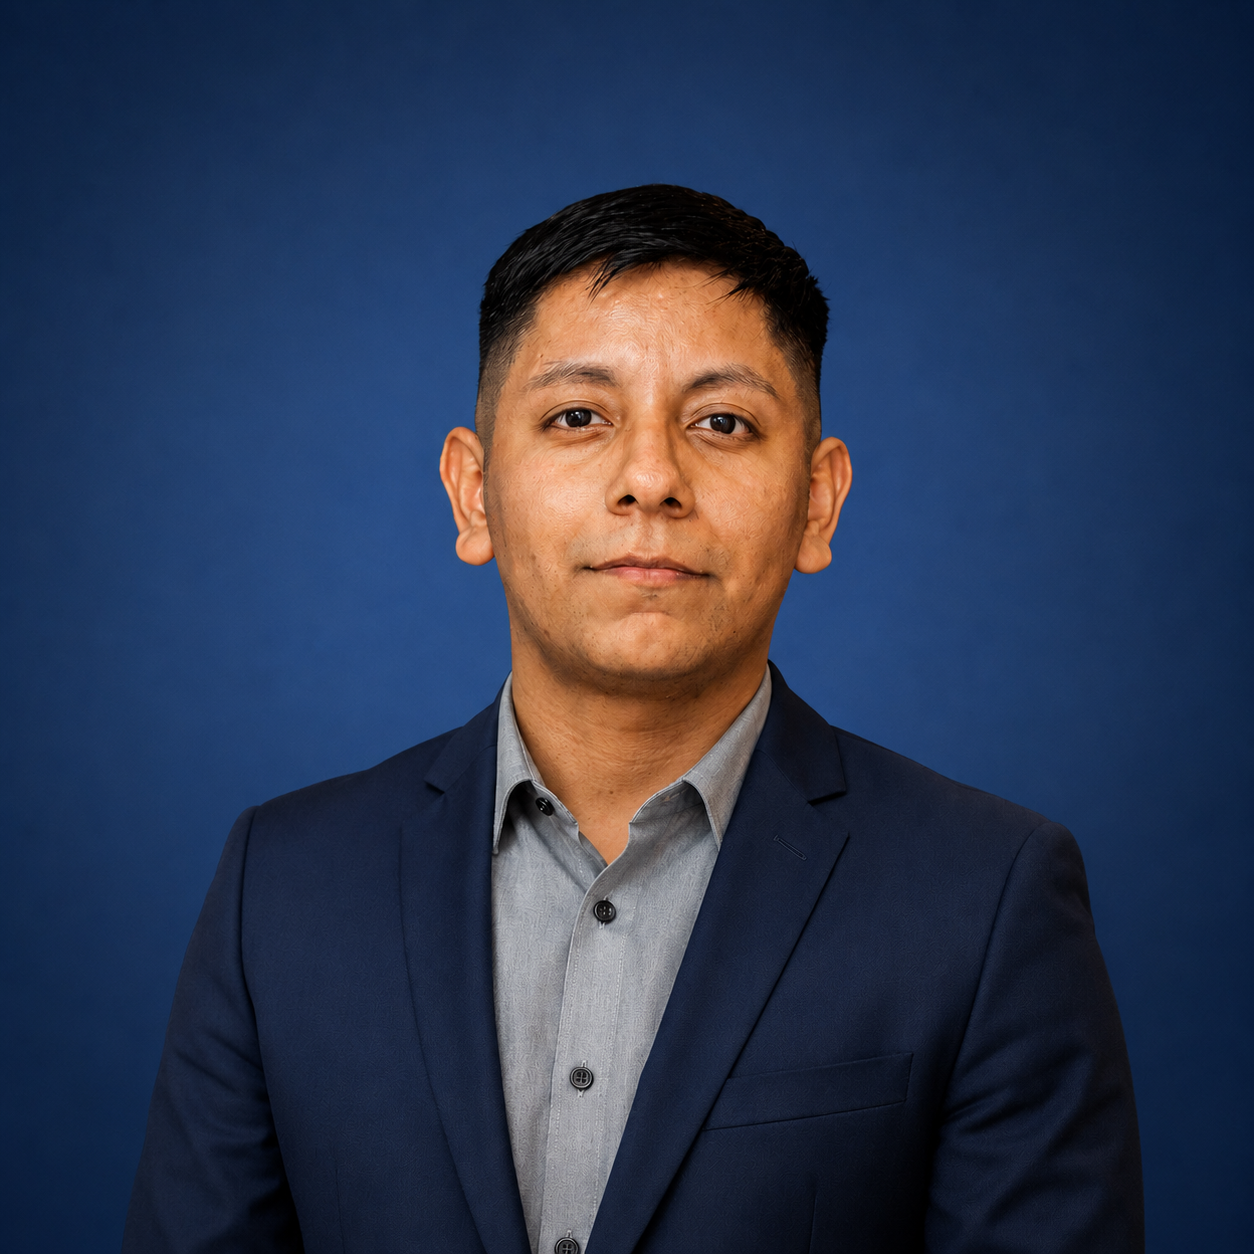
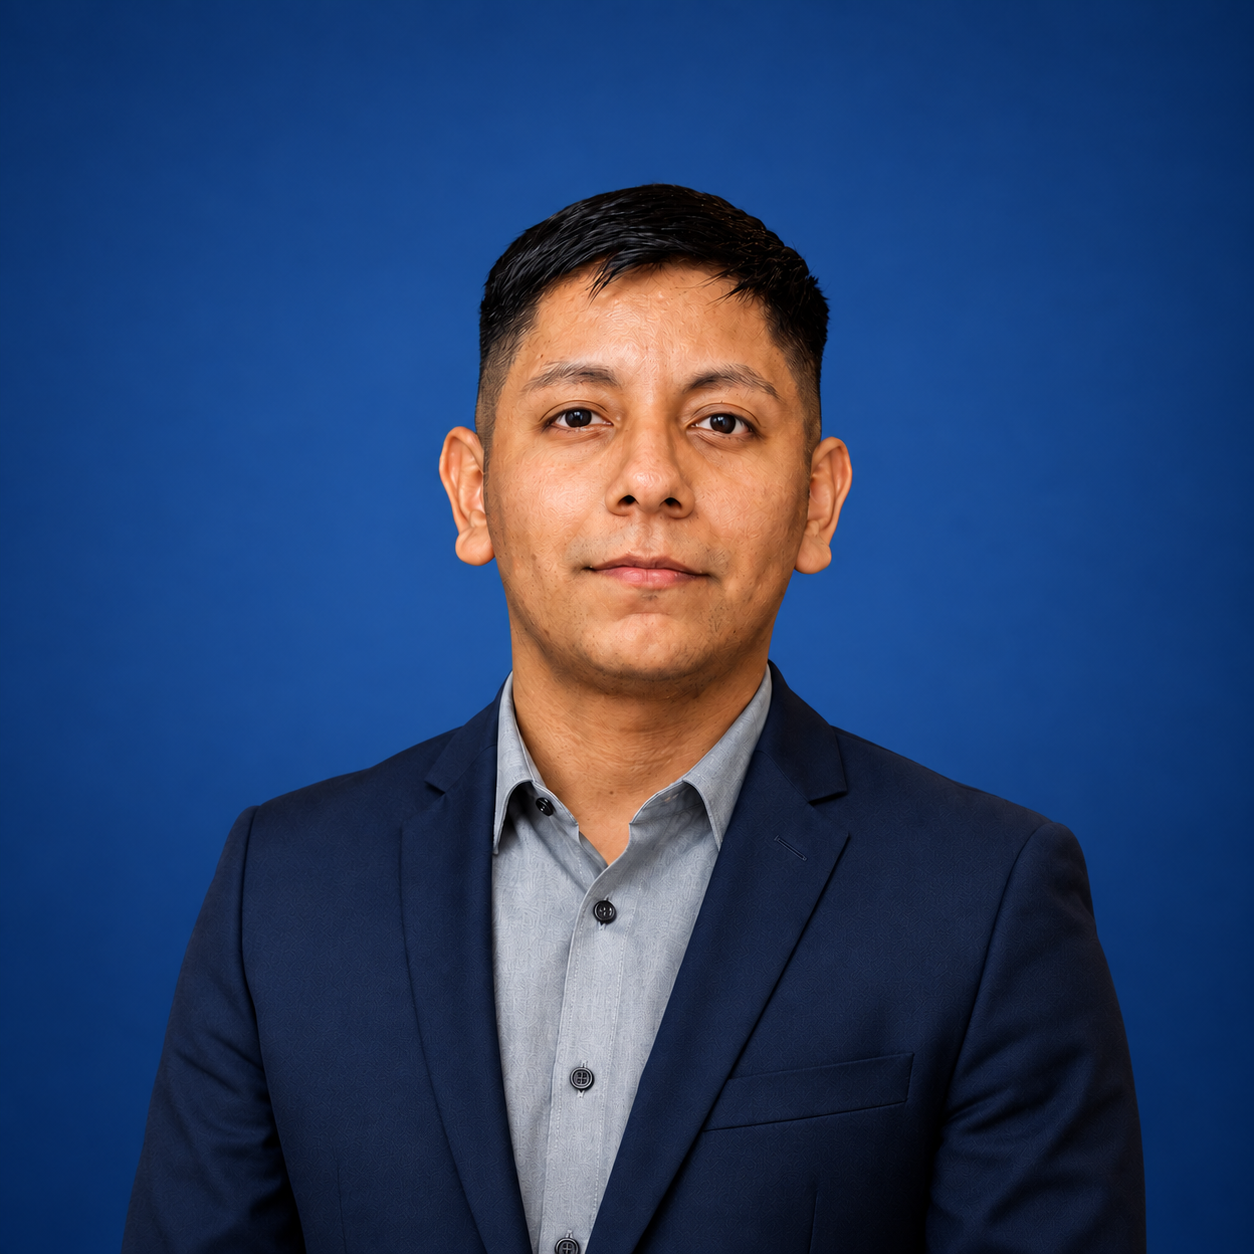
ultimos cambios aplicados- mejoras

diff --git a/components/profile/talks.tsx b/components/profile/talks.tsx
@@ -1,7 +1,6 @@
 "use client";
 
 import { useEffect, useRef } from "react";
-import { Button } from "@/components/ui/button";
 import { Badge } from "@/components/ui/badge";
 import { Talks } from "@/schemas/profile";
 import { formatDate } from "@/lib/date";
@@ -11,8 +10,6 @@ import { useHorizontalLenis } from "@/lib/use-horizontal-lenis";
 import Image from "next/image";
 import Link from "next/link";
 import {
-  ChevronLeft,
-  ChevronRight,
   ExternalLink,
   Mic,
   GraduationCap,
@@ -88,13 +85,6 @@ export function TalksBlock({ talks }: TalksBlockProps) {
 
   // Duplicated once so the auto-scroll can loop seamlessly.
   const loop = [...sorted, ...sorted];
-
-  const scrollBy = (dir: 1 | -1) => {
-    scrollerRef.current?.scrollBy({
-      left: dir * (scrollerRef.current.clientWidth * 0.85),
-      behavior: "smooth",
-    });
-  };
 
   const onPointerDown = (e: React.PointerEvent<HTMLDivElement>) => {
     if (e.pointerType !== "mouse") return;
@@ -177,7 +167,7 @@ export function TalksBlock({ talks }: TalksBlockProps) {
               <div
                 key={i}
                 aria-hidden={isDuplicate || undefined}
-                className="group flex w-90 shrink-0 flex-col overflow-hidden rounded-2xl border border-border/50 bg-card/80 shadow-xl shadow-black/5 backdrop-blur transition-all duration-300 hover:border-border hover:shadow-2xl sm:w-130"
+                className="group flex w-64 shrink-0 flex-col overflow-hidden rounded-2xl border border-border/50 bg-card/80 shadow-xl shadow-black/5 backdrop-blur transition-all duration-300 hover:border-border hover:shadow-2xl sm:w-130"
               >
                 <div className="relative aspect-4/3 w-full shrink-0 overflow-hidden bg-muted">
                   {talk.image ? (
@@ -247,27 +237,6 @@ export function TalksBlock({ talks }: TalksBlockProps) {
               </div>
             );
           })}
-        </div>
-
-        <div className="mt-2 flex justify-end gap-2">
-          <Button
-            variant="outline"
-            size="icon"
-            className="h-8 w-8 rounded-full"
-            onClick={() => scrollBy(-1)}
-            aria-label={t.prevAria}
-          >
-            <ChevronLeft className="h-4 w-4" />
-          </Button>
-          <Button
-            variant="outline"
-            size="icon"
-            className="h-8 w-8 rounded-full"
-            onClick={() => scrollBy(1)}
-            aria-label={t.nextAria}
-          >
-            <ChevronRight className="h-4 w-4" />
-          </Button>
         </div>
       </div>
     </div>

diff --git a/data/profile.ts b/data/profile.ts
@@ -86,7 +86,7 @@ export const profile: Profile = {
       description:
         "Espacio propio para compartir artículos, proyectos e investigaciones sobre ingeniería de software, agilidad e inteligencia artificial. También en Instagram (@argis_lab).",
       logo: "/communities/com_argislab.png",
-      url: "https://chat.whatsapp.com/GrFpQi2xCam4EBBG7UzYdl",
+      url: "https://www.argislab.com",
     },
     {
       name: "Ágiles Argentina",
@@ -378,6 +378,7 @@ export const profile: Profile = {
         "Desarrollo y mantenimiento de las plataformas web Red-i (gestión de clínicas) y Convenia Salud (financiadores de salud).",
       highlights: [
         "Implementación de nuevas funcionalidades y mejora continua de módulos críticos del sistema: historia clínica, turnos, portal del profesional y administrativo, facturación, lógica de precios, reglas de negocio para convenios, aranceles por prestador, liquidaciones, entre otras.",
+        "Stack: CakePHP y Python (backend), JavaScript y Bootstrap (frontend), MySQL y MongoDB (bases de datos); Docker, GitLab, Visual Studio Code y Trello.",
       ],
       tech: [
         "CakePHP",
@@ -388,6 +389,8 @@ export const profile: Profile = {
         "MongoDB",
         "Docker",
         "GitLab",
+        "Visual Studio Code",
+        "Trello",
       ],
     },
     {

diff --git a/data/profile.en.ts b/data/profile.en.ts
@@ -86,7 +86,7 @@ export const profileEn: Profile = {
       description:
         "My own space for sharing articles, projects, and research on software engineering, agility, and artificial intelligence. Also on Instagram (@argis_lab).",
       logo: "/communities/com_argislab.png",
-      url: "https://chat.whatsapp.com/GrFpQi2xCam4EBBG7UzYdl",
+      url: "https://www.argislab.com",
     },
     {
       name: "Ágiles Argentina",
@@ -379,6 +379,7 @@ export const profileEn: Profile = {
         "Development and maintenance of the Red-i (clinic management) and Convenia Salud (health insurers) web platforms.",
       highlights: [
         "Implementation of new features and continuous improvement of critical system modules: medical records, appointments, professional and administrative portals, billing, pricing logic, business rules for insurance agreements, provider fees, settlements, among others.",
+        "Stack: CakePHP and Python (backend), JavaScript and Bootstrap (frontend), MySQL and MongoDB (databases); Docker, GitLab, Visual Studio Code, and Trello.",
       ],
       tech: [
         "CakePHP",
@@ -389,6 +390,8 @@ export const profileEn: Profile = {
         "MongoDB",
         "Docker",
         "GitLab",
+        "Visual Studio Code",
+        "Trello",
       ],
     },
     {

diff --git a/components/profile/certifications-block.tsx b/components/profile/certifications-block.tsx
@@ -37,7 +37,7 @@ export function CertificationsBlock({
           const content = (
             <div className="group flex h-full flex-col gap-3 rounded-2xl border border-border/50 bg-card/80 p-5 shadow-xl shadow-black/5 backdrop-blur transition-all duration-300 hover:-translate-y-1 hover:border-border hover:shadow-2xl">
               <Badge variant="secondary" className="w-fit">
-                {categories[cert.category]}
+                {categories[cert.category].replace(/^\P{L}+/u, "")}
               </Badge>
               <h4 className="font-semibold leading-snug">{cert.title}</h4>
               <p className="text-sm text-muted-foreground">{cert.issuer}</p>

diff --git a/lib/i18n.ts b/lib/i18n.ts
@@ -44,8 +44,6 @@ export const dictionary = {
           profesional: "Presentación",
         },
         viewMore: "Ver más",
-        prevAria: "Anterior",
-        nextAria: "Siguiente",
       },
       education: {
         title: "Estudios",
@@ -155,8 +153,6 @@ export const dictionary = {
           profesional: "Presentation",
         },
         viewMore: "Learn more",
-        prevAria: "Previous",
-        nextAria: "Next",
       },
       education: {
         title: "Education",

diff --git a/components/profile/about.tsx b/components/profile/about.tsx
@@ -48,7 +48,7 @@ export function AboutSection({
           <Reveal
             direction="right"
             delay={120}
-            className="relative overflow-hidden rounded-2xl border border-border shadow-lg"
+            className="relative mx-auto w-full max-w-55 overflow-hidden rounded-2xl border border-border shadow-lg sm:max-w-70 md:mx-0 md:max-w-none"
           >
             <img
               src={person.avatar}
